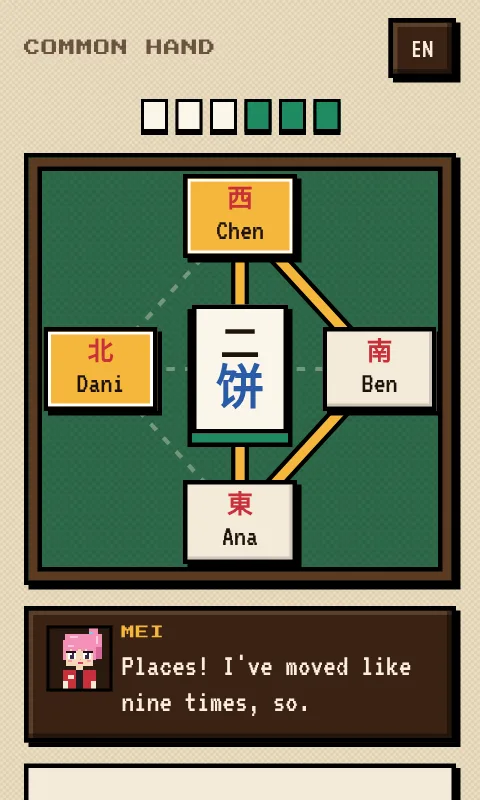
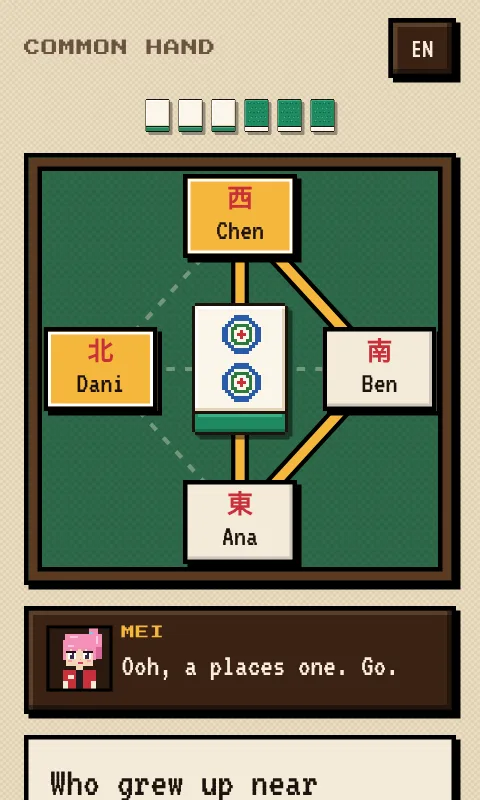
Common Hand: pixel-art mahjong tiles in the town's style (ivory face, jade back), and a short line of its own on the share card
Claude-Session: https://claude.ai/code/session_0148vArL2i4wagEXipodkMLS

diff --git a/portfolio/index.html b/portfolio/index.html
@@ -940,7 +940,7 @@ img{filter:none}
         <a class="nt" href="https://www.after-hours.work/get-well-soup/" target="_blank" rel="noopener noreferrer" style="--glow:#E2654A"><span class="nt-shot"><img src="/after-hours/get-well-soup.webp?v=234dbfa1" width="480" height="800" loading="lazy" alt=""></span><span class="nt-txt"><span class="nt-n">13</span><b><span data-i18n="gwName">Get Well Soup</span></b><span class="nt-l" data-i18n="gwL">Someone's got a cold? Put a pot on for them.</span><span class="nt-go"><span data-i18n="gwGo">Open Get Well Soup</span> ↗</span></span></a>
         <a class="nt" href="https://www.after-hours.work/cook-for-someone/" target="_blank" rel="noopener noreferrer" style="--glow:#E8A838"><span class="nt-shot"><img src="/after-hours/cook-for-someone.webp?v=8a3390ce" width="480" height="800" loading="lazy" alt=""></span><span class="nt-txt"><span class="nt-n">14</span><b><span data-i18n="cfName">Cook for Someone</span></b><span class="nt-l" data-i18n="cfL">Popo's recipe box, for whoever's eating.</span><span class="nt-go"><span data-i18n="cfGo">Open Cook for Someone</span> ↗</span></span></a>
         <a class="nt" href="https://www.after-hours.work/mix-for-someone/" target="_blank" rel="noopener noreferrer" style="--glow:#E3B764"><span class="nt-shot"><img src="/after-hours/mix-for-someone.webp?v=383f558a" width="480" height="800" loading="lazy" alt=""></span><span class="nt-txt"><span class="nt-n">15</span><b><span data-i18n="mxName">Mix for Someone</span></b><span class="nt-l" data-i18n="mxL">Next Door's House book, zero-proof too.</span><span class="nt-go"><span data-i18n="mxGo">Open Mix for Someone</span> ↗</span></span></a>
-        <a class="nt" href="https://www.after-hours.work/common-hand/" target="_blank" rel="noopener noreferrer" style="--glow:#3FA373"><span class="nt-shot"><img src="/after-hours/common-hand.webp?v=f6e005f5" width="480" height="800" loading="lazy" alt=""></span><span class="nt-txt"><span class="nt-n">16</span><b><span data-i18n="chName">Common Hand</span></b><span class="nt-l" data-i18n="chL">Four at the table, something in common for every pair.</span><span class="nt-go"><span data-i18n="chGo">Open Common Hand</span> ↗</span></span></a>
+        <a class="nt" href="https://www.after-hours.work/common-hand/" target="_blank" rel="noopener noreferrer" style="--glow:#3FA373"><span class="nt-shot"><img src="/after-hours/common-hand.webp?v=c63d9674" width="480" height="800" loading="lazy" alt=""></span><span class="nt-txt"><span class="nt-n">16</span><b><span data-i18n="chName">Common Hand</span></b><span class="nt-l" data-i18n="chL">Four at the table, something in common for every pair.</span><span class="nt-go"><span data-i18n="chGo">Open Common Hand</span> ↗</span></span></a>
         <a class="nt" href="https://www.after-hours.work/nearby/" target="_blank" rel="noopener noreferrer" style="--glow:#8E7FE6"><span class="nt-shot"><img src="/after-hours/nearby.webp?v=369e0268" width="480" height="800" loading="lazy" alt=""></span><span class="nt-txt"><span class="nt-n">17</span><b>Nearby</b><span class="nt-l" data-i18n="nbL">A little world that sends you back to yours.</span><span class="nt-go"><span data-i18n="nbGo">Walk in</span> ↗</span></span></a>
         <a class="nt" href="https://www.after-hours.work/station/" target="_blank" rel="noopener noreferrer" style="--glow:#6F93D8"><span class="nt-shot"><img src="/after-hours/station.webp?v=774e227c" width="480" height="800" loading="lazy" alt=""></span><span class="nt-txt"><span class="nt-n">18</span><b><span data-i18n="stName">Nearby Station</span></b><span class="nt-l" data-i18n="stL">A window seat on a slow train.</span><span class="nt-go"><span data-i18n="stGo">Board</span> ↗</span></span></a>
         <a class="nt" href="https://www.after-hours.work/handoff/" target="_blank" rel="noopener noreferrer" style="--glow:#E9825E"><span class="nt-shot"><img src="/after-hours/handoff.webp?v=d103c7ed" width="480" height="800" loading="lazy" alt=""></span><span class="nt-txt"><span class="nt-n">19</span><b>Handoff</b><span class="nt-l" data-i18n="hoL">For two people in different cities.</span><span class="nt-go"><span data-i18n="hoGo">Open Handoff</span> ↗</span></span></a>
